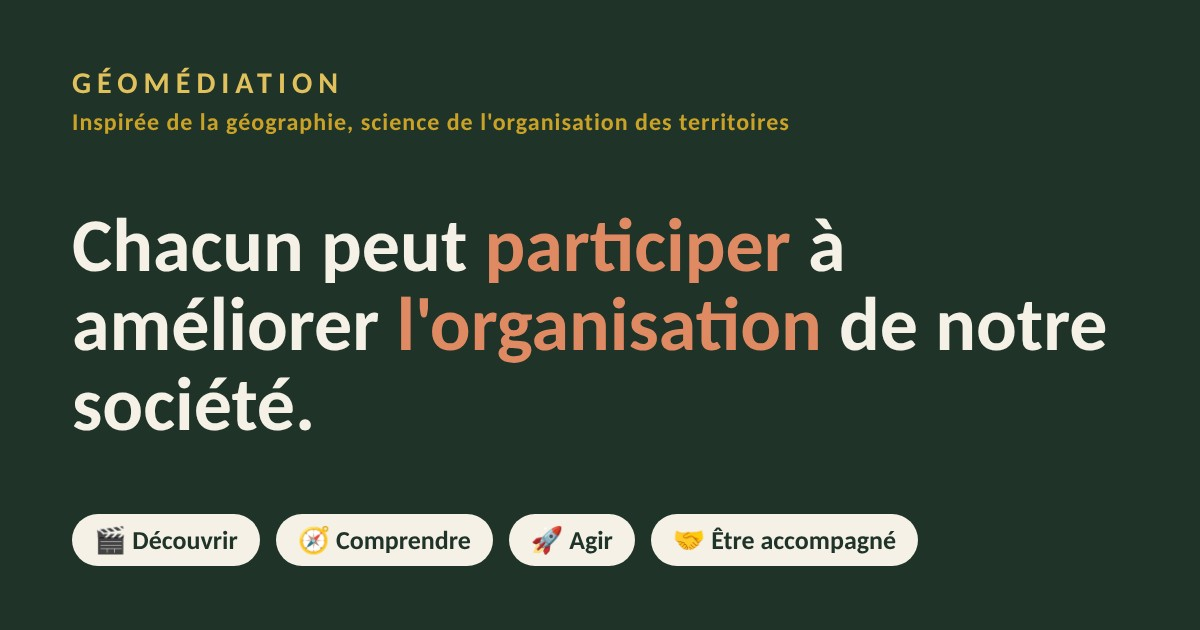
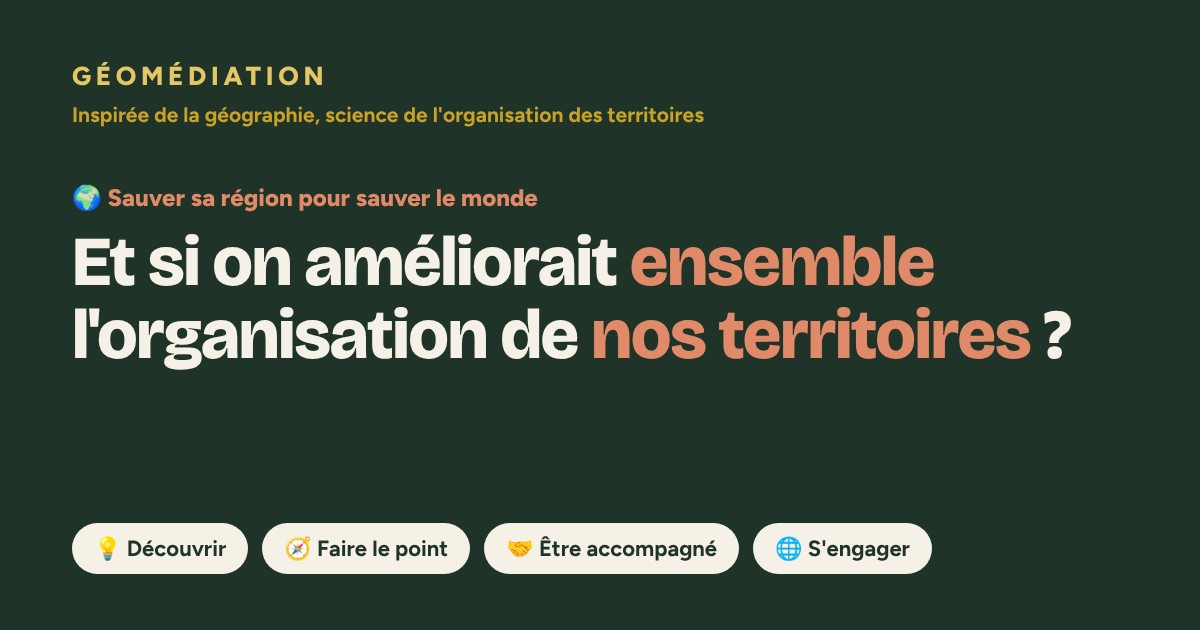
Titre : Et si on améliorait ensemble l'organisation de nos territoires ? (page, partage, image)
Claude-Session: https://claude.ai/code/session_01JaWJ37FXw7RcEPasKsWdeh

Changed region(s): [[0.0617, 0.2714, 0.925, 0.6937], [0.0617, 0.8143, 0.8017, 0.9349], [0.0617, 0.0905, 0.6783, 0.2111]]

diff --git a/index.html b/index.html
@@ -5,7 +5,7 @@
 <meta http-equiv="Content-Security-Policy" content="default-src 'self'; script-src 'self' 'unsafe-inline'; style-src 'self' 'unsafe-inline'; img-src 'self' data: blob:; media-src 'self' blob:; font-src 'self'; connect-src 'self'; frame-src 'none'; object-src 'none'; base-uri 'self'; form-action 'self' mailto:; upgrade-insecure-requests">
 <meta name="referrer" content="strict-origin-when-cross-origin">
 <meta name="viewport" content="width=device-width, initial-scale=1">
-<meta name="description" content="Chacun peut participer à améliorer l'organisation de notre société : une même méthode, de soi au territoire, et des médiateurs indépendants pour relier thématiques, acteurs et échelles.">
+<meta name="description" content="Et si on améliorait ensemble l'organisation de nos territoires ? une même méthode, de soi au territoire, et des médiateurs indépendants pour relier thématiques, acteurs et échelles.">
 <link rel="canonical" href="https://kerracheothman-design.github.io/Site-geomediation-/">
 <meta name="robots" content="index, follow">
 <meta name="author" content="Othman Kerrache · Géomédiation">
@@ -16,7 +16,7 @@
 {"@type":"Event","name":"À Biganos, une rencontre au service de nos territoires","description":"Le Tour de France de La Marche à suivre fait étape à Biganos : marche, puis rencontre sur les enjeux écologiques, les circuits courts, la gestion des incendies et la coopération des acteurs du territoire. Auberge espagnole.","startDate":"2026-11-08T13:30:00+01:00","endDate":"2026-11-08T19:00:00+01:00","eventStatus":"https://schema.org/EventScheduled","eventAttendanceMode":"https://schema.org/OfflineEventAttendanceMode","isAccessibleForFree":true,"location":{"@type":"Place","name":"La Serre Ô Délices","address":{"@type":"PostalAddress","streetAddress":"71 chemin de Pardies","addressLocality":"Biganos","postalCode":"33380","addressCountry":"FR"}},"image":["https://kerracheothman-design.github.io/Site-geomediation-/social/biganos-8-novembre-v2.jpg"],"organizer":[{"@type":"Organization","name":"Kyria et l'Association Gaya · La Marche à suivre","url":"https://lamarcheasuivre.net"},{"@id":"https://kerracheothman-design.github.io/Site-geomediation-/#org"}],"offers":{"@type":"Offer","price":"0","priceCurrency":"EUR","availability":"https://schema.org/InStock","url":"https://facebook.com/events/s/la-marche-a-suivre/1438003731372309/"}}
 ]}
 </script>
-<title>Géomédiation · Chacun peut participer à améliorer l'organisation de notre société</title>
+<title>Géomédiation · Et si on améliorait ensemble l'organisation de nos territoires ?</title>
 <link rel="icon" type="image/png" href="favicon.png">
 <link rel="apple-touch-icon" href="apple-touch-icon.png">
 <meta name="theme-color" content="#1F3329">
@@ -24,14 +24,14 @@
 <meta property="og:site_name" content="Géomédiation">
 <meta property="og:locale" content="fr_FR">
 <meta property="og:url" content="https://kerracheothman-design.github.io/Site-geomediation-/">
-<meta property="og:title" content="Chacun peut participer à améliorer l'organisation de notre société">
+<meta property="og:title" content="Et si on améliorait ensemble l'organisation de nos territoires ?">
 <meta property="og:description" content="Une même méthode, de soi au territoire, et des médiateurs indépendants pour relier les thématiques, les acteurs et les échelles. Découvrez-la en 1 minute.">
 <meta property="og:image" content="https://kerracheothman-design.github.io/Site-geomediation-/social/og-image.jpg">
 <meta property="og:image:width" content="1200">
 <meta property="og:image:height" content="630">
-<meta property="og:image:alt" content="Géomédiation : chacun peut participer à améliorer l'organisation de notre société">
+<meta property="og:image:alt" content="Géomédiation : et si on améliorait ensemble l'organisation de nos territoires ?">
 <meta name="twitter:card" content="summary_large_image">
-<meta name="twitter:title" content="Chacun peut participer à améliorer l'organisation de notre société">
+<meta name="twitter:title" content="Et si on améliorait ensemble l'organisation de nos territoires ?">
 <meta name="twitter:description" content="Une même méthode, de soi au territoire, et des médiateurs indépendants pour relier les thématiques, les acteurs et les échelles.">
 <meta name="twitter:image" content="https://kerracheothman-design.github.io/Site-geomediation-/social/og-image.jpg">
 <style>
@@ -1603,8 +1603,8 @@ function openPros(tab){ const go2=()=>{ const el=document.getElementById('f-pros
 function fold(id,t,sub,nodes){ const d=h('details',{class:'fold rv',id}); d.innerHTML=`<summary><span class="fd-t">${t}</span><span class="fd-s">${sub}</span></summary>`; const b=h('div',{class:'fd-b'}); nodes.forEach(n=>b.appendChild(n)); d.appendChild(b); return d; }
 function renderHome(){
   add(h('p',{class:'hero-k'},'🌍 Sauver sa région pour sauver le monde'));
-  add(h('h1',{class:'dream-h1'},"Chacun peut <em>participer</em> à améliorer <em>l'organisation</em> de notre société."));
-  add(h('p',{class:'hero-lead'},"Et si nos <b>problématiques</b>, individuelles et collectives, dépendaient d'abord de <b>notre façon de nous organiser</b> ?"));
+  add(h('h1',{class:'dream-h1'},"Et si on améliorait <em>ensemble</em> l'organisation de <em>nos territoires</em>\u00a0?"));
+  add(h('p',{class:'hero-lead'},"Nos <b>problématiques</b>, individuelles et collectives, dépendraient-elles d'abord de <b>notre façon de nous organiser</b>\u00a0?"));
   { const cta=h('div',{class:'hero-cta'}); cta.append(h('button',{class:'btn btn-gold', onclick:()=>{ const el=$('step3'); if(el) el.scrollIntoView({behavior:'smooth',block:'start'}); }},'🚀 Je commence <small>2 minutes</small>'), h('a',{class:'btn btn-soft', href:'plan-mobilite.html#sondage'},'💭 Le quiz')); add(cta);
     add(h('div',{class:'hero-stats'},`<div class="hs-go" data-t="med" role="button" tabindex="0"><b>${MEDIATEURS.length}</b>médiateurs en région</div><div class="hs-go" data-t="pro" role="button" tabindex="0"><b>${COLLAB_GROUPS.reduce((n,g)=>n+g.m.length,0)}</b>professionnels engagés</div><div><b>${COLLAB_GROUPS.length}</b>pôles de compétences</div>`)); }
   const vw=h('figure',{class:'intro-video'}); vw.innerHTML='<video controls playsinline preload="none" poster="video-affiche.jpg" aria-label="La Géomédiation en une minute"><source src="video-geomediation.mp4" type="video/mp4"></video>'; add(vw);

diff --git a/v2/index.html b/v2/index.html
@@ -5,7 +5,7 @@
 <meta http-equiv="Content-Security-Policy" content="default-src 'self'; script-src 'self' 'unsafe-inline'; style-src 'self' 'unsafe-inline'; img-src 'self' data: blob:; media-src 'self' blob:; font-src 'self'; connect-src 'self'; frame-src 'none'; object-src 'none'; base-uri 'self'; form-action 'self' mailto:; upgrade-insecure-requests">
 <meta name="referrer" content="strict-origin-when-cross-origin">
 <meta name="viewport" content="width=device-width, initial-scale=1">
-<meta name="description" content="Chacun peut participer à améliorer l'organisation de notre société : une même méthode, de soi au territoire, et des médiateurs indépendants pour relier thématiques, acteurs et échelles.">
+<meta name="description" content="Et si on améliorait ensemble l'organisation de nos territoires ? une même méthode, de soi au territoire, et des médiateurs indépendants pour relier thématiques, acteurs et échelles.">
 <meta name="robots" content="noindex, nofollow">
 <meta name="author" content="Othman Kerrache · Géomédiation">
 <script type="application/ld+json">
@@ -15,7 +15,7 @@
 {"@type":"Event","name":"À Biganos, une rencontre au service de nos territoires","description":"Le Tour de France de La Marche à suivre fait étape à Biganos : marche, puis rencontre sur les enjeux écologiques, les circuits courts, la gestion des incendies et la coopération des acteurs du territoire. Auberge espagnole.","startDate":"2026-11-08T13:30:00+01:00","endDate":"2026-11-08T19:00:00+01:00","eventStatus":"https://schema.org/EventScheduled","eventAttendanceMode":"https://schema.org/OfflineEventAttendanceMode","isAccessibleForFree":true,"location":{"@type":"Place","name":"La Serre Ô Délices","address":{"@type":"PostalAddress","streetAddress":"71 chemin de Pardies","addressLocality":"Biganos","postalCode":"33380","addressCountry":"FR"}},"image":["https://kerracheothman-design.github.io/Site-geomediation-/social/biganos-8-novembre-v2.jpg"],"organizer":[{"@type":"Organization","name":"Kyria et l'Association Gaya · La Marche à suivre","url":"https://lamarcheasuivre.net"},{"@id":"https://kerracheothman-design.github.io/Site-geomediation-/#org"}],"offers":{"@type":"Offer","price":"0","priceCurrency":"EUR","availability":"https://schema.org/InStock","url":"https://facebook.com/events/s/la-marche-a-suivre/1438003731372309/"}}
 ]}
 </script>
-<title>Géomédiation · Chacun peut participer à améliorer l'organisation de notre société</title>
+<title>Géomédiation · Et si on améliorait ensemble l'organisation de nos territoires ?</title>
 <link rel="icon" type="image/png" href="../favicon.png">
 <link rel="apple-touch-icon" href="../apple-touch-icon.png">
 <meta name="theme-color" content="#1F3329">
@@ -23,14 +23,14 @@
 <meta property="og:site_name" content="Géomédiation">
 <meta property="og:locale" content="fr_FR">
 <meta property="og:url" content="https://kerracheothman-design.github.io/Site-geomediation-/">
-<meta property="og:title" content="Chacun peut participer à améliorer l'organisation de notre société">
+<meta property="og:title" content="Et si on améliorait ensemble l'organisation de nos territoires ?">
 <meta property="og:description" content="Une même méthode, de soi au territoire, et des médiateurs indépendants pour relier les thématiques, les acteurs et les échelles. Découvrez-la en 1 minute.">
 <meta property="og:image" content="https://kerracheothman-design.github.io/Site-geomediation-/social/og-image.jpg">
 <meta property="og:image:width" content="1200">
 <meta property="og:image:height" content="630">
-<meta property="og:image:alt" content="Géomédiation : chacun peut participer à améliorer l'organisation de notre société">
+<meta property="og:image:alt" content="Géomédiation : et si on améliorait ensemble l'organisation de nos territoires ?">
 <meta name="twitter:card" content="summary_large_image">
-<meta name="twitter:title" content="Chacun peut participer à améliorer l'organisation de notre société">
+<meta name="twitter:title" content="Et si on améliorait ensemble l'organisation de nos territoires ?">
 <meta name="twitter:description" content="Une même méthode, de soi au territoire, et des médiateurs indépendants pour relier les thématiques, les acteurs et les échelles.">
 <meta name="twitter:image" content="https://kerracheothman-design.github.io/Site-geomediation-/social/og-image.jpg">
 <style>
@@ -1520,8 +1520,8 @@ function openPros(){ const go2=()=>{ const el=document.getElementById('f-pros');
 function fold(id,t,sub,nodes){ const d=h('details',{class:'fold rv',id}); d.innerHTML=`<summary><span class="fd-t">${t}</span><span class="fd-s">${sub}</span></summary>`; const b=h('div',{class:'fd-b'}); nodes.forEach(n=>b.appendChild(n)); d.appendChild(b); return d; }
 function renderHome(){
   add(h('p',{class:'hero-k'},'🌍 Sauver sa région pour sauver le monde'));
-  add(h('h1',{class:'dream-h1'},"Chacun peut <em>participer</em> à améliorer <em>l'organisation</em> de notre société."));
-  add(h('p',{class:'hero-lead'},"Et si nos <b>problématiques</b>, individuelles et collectives, dépendaient d'abord de <b>notre façon de nous organiser</b> ?"));
+  add(h('h1',{class:'dream-h1'},"Et si on améliorait <em>ensemble</em> l'organisation de <em>nos territoires</em>\u00a0?"));
+  add(h('p',{class:'hero-lead'},"Nos <b>problématiques</b>, individuelles et collectives, dépendraient-elles d'abord de <b>notre façon de nous organiser</b>\u00a0?"));
   { const cta=h('div',{class:'hero-cta'}); cta.append(h('button',{class:'btn btn-gold', onclick:()=>{ const el=$('step3'); if(el) el.scrollIntoView({behavior:'smooth',block:'start'}); }},'🚀 Je commence <small>2 minutes</small>'), h('a',{class:'btn btn-soft', href:'plan-mobilite.html#sondage'},'💭 Le quiz')); add(cta);
     add(h('div',{class:'hero-stats'},`<div><b>${MEDIATEURS.length}</b>médiateurs en région</div><div><b>${COLLAB_GROUPS.reduce((n,g)=>n+g.m.length,0)}</b>professionnels engagés</div><div><b>${COLLAB_GROUPS.length}</b>pôles de compétences</div>`)); }
   const vw=h('figure',{class:'intro-video'}); vw.innerHTML='<video controls playsinline preload="none" poster="../video-affiche.jpg" aria-label="La Géomédiation en une minute"><source src="../video-geomediation.mp4" type="video/mp4"></video>'; add(vw);
